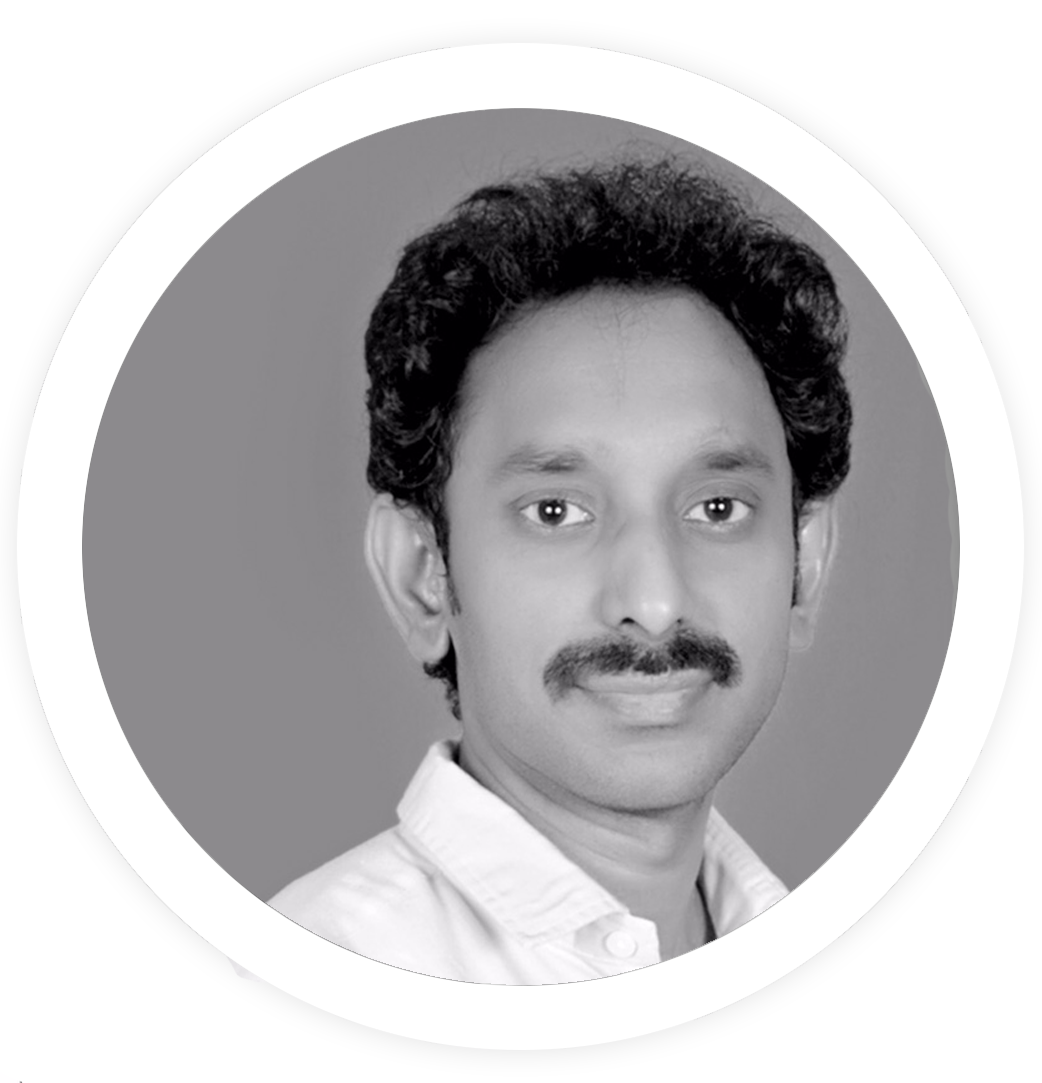
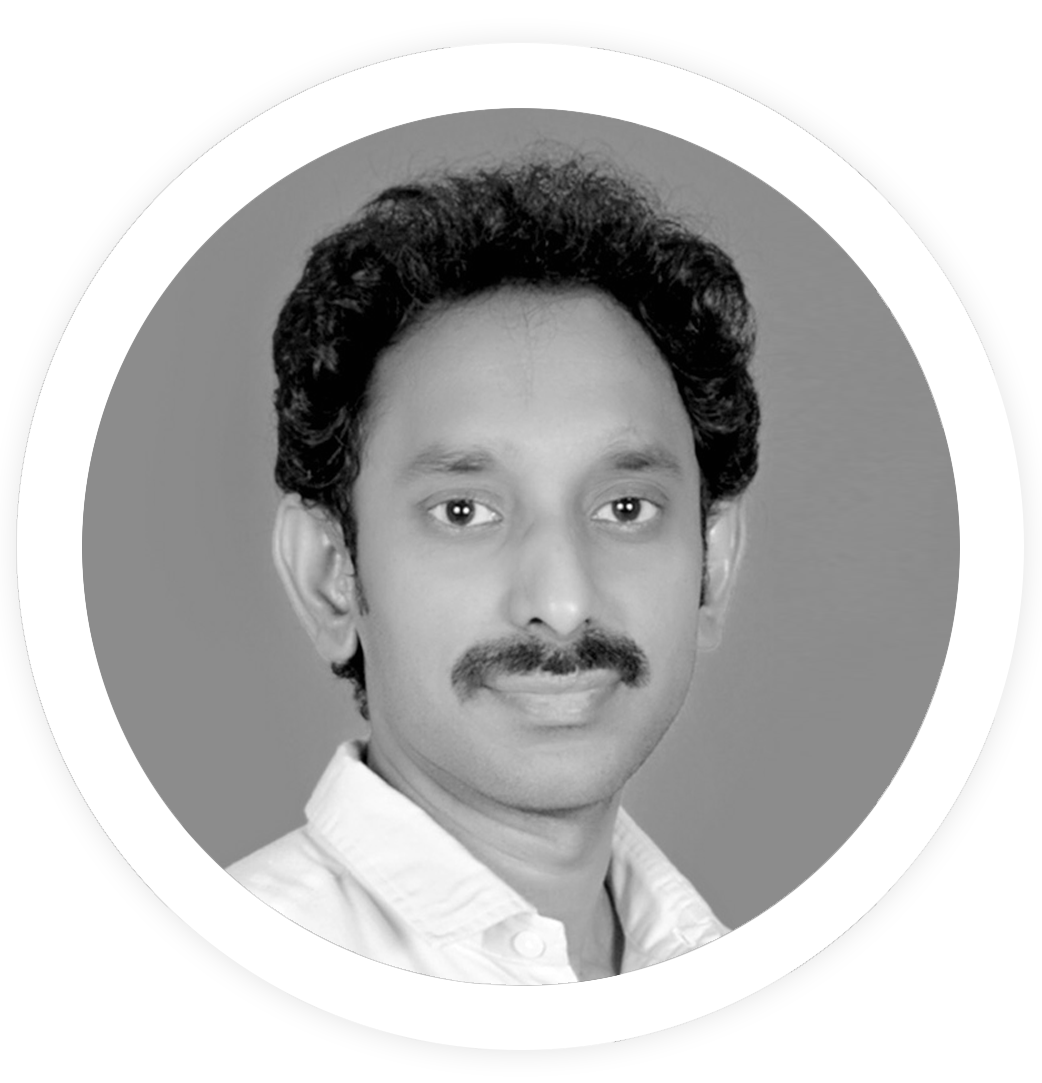
changes to overview page
changes to overview page

Changed region(s): [[0.215, 0.1219, 0.8292, 0.9141]]

diff --git a/main/overview.html b/main/overview.html
@@ -114,24 +114,48 @@
     <!--<div style="width: 80%; margin: 0 auto;">-->
     <div>
         <div id="theProblem">
-            <h2 style="color: #116194;">There is a growing gap between data generated and the ability of business to derive actionable insights</h2>
+            <h2 id="theGap">There is a growing gap between data generated and the ability of business to derive actionable insights</h2>
 
 
             <div id="max-breaker"></div>
             <img id="dataImg" src="images/data_knowledge_action.png" />
         </div>
-        <hr/>
         <div id="change">
             <h2 id="changeHeader">DISCERN Changes all of that</h2>
         </div>
-        <div id="missionDiv">
-            <h2><b>Our Mission:</b> DISCERN makes the world of data MORE:</h2>
-            <h3>Discoverable</h3>
-            <h3>Useful</h3>
-            <h3>Accessible</h3>
-            <h3>Valuable</h3>
+        <img src="images/spider.png">
+        <h2 id="bridgeGap">DISCERN Bridges the Gap</h2>
+        <div id="splitButtons">
+            <div id="leftButtonDiv" class="col-xs-6">
+                <button id="leftButton">Learn More</button>
+            </div>
+            <div id="rightButtonDiv" class="col-xs-6">
+                <button id="rightButton">Learn More</button>
+            </div>
         </div>
-        <hr>
+        <div id="missionDiv">
+            <h2 id="missionHeader">Our Mission</h2>
+            <h3 id="bulletsHeader">DISCERN makes the world of data MORE:</h3>
+            <div class="col-xs-1"></div>
+            <div id="bulletDiv" class="col-xs-10">
+                <div class="col-xs-3">
+                    <h3 class="bullets">Discoverable</h3>
+                </div>
+                <div class="col-xs-3">
+                    <h3 class="bullets">Useful</h3>
+                </div>
+                <div class="col-xs-3">
+                    <h3 class="bullets">Valuable</h3>
+                </div>
+                <div class="col-xs-3">
+                    <h3 class="bullets">Accessible</h3>
+                </div>
+            </div>
+            <div class="col-xs-1"></div>
+
+
+
+        </div>
         <div id="valuePropDiv">
             <h2 style="color: white">Value Proposition: DISCERN improves decision-making effectiveness by > 100x</h2>
             <!--<span id="increase100" style="color: #337ab7;"><b>>100x</b></span></h2>-->
@@ -157,6 +181,57 @@
         position: fixed;
         bottom: 0;
         right: 0;
+        padding: 20px;
+    }
+
+    #theGap {
+        color: #116194;
+        margin-top: 50px;
+    }
+
+    #bulletDiv {
+        padding: 0;
+    }
+
+    #leftButtonDiv {
+        border-right: 2px solid #116194;
+        padding: 30px;
+    }
+
+    #rightButtonDiv {
+        padding: 30px;
+    }
+
+    #splitButtons {
+        background-color: lightgray;
+        padding-top: 15px;
+        height: 150px;
+    }
+
+    #leftButton {
+        width: 50%;
+        display: block;
+        margin: auto;
+        font-size: 28px;
+        padding: 10px;
+        background-color: orange;
+        border: 1px solid orange;
+        color: white;
+    }
+
+    #rightButton {
+        width: 50%;
+        display: block;
+        margin: auto;
+        font-size: 28px;
+        padding: 10px;
+        background-color: purple;
+        border: 1px solid purple;
+        color: white;
+    }
+
+    #bulletsHeader {
+        font-size: 42px;
         padding: 20px;
     }
 
@@ -196,9 +271,16 @@
 
     #missionDiv {
         /*background-color: #337ab7;*/
-        padding: 50px;
+        padding: 0 50px;
         /*color: white;*/
         color: #337ab7;
+        height: 400px;
+    }
+
+    #missionHeader {
+        font-size: 100px;
+        letter-spacing: 1px;
+        padding: 20px;
     }
 
     #valuePropDiv {
@@ -208,8 +290,9 @@
 
     #dataImg {
         display: block;
-        width: 90%;
+        width: 70%;
         margin: auto;
+        margin-bottom: 50px;
     }
 
     #increase100 {

diff --git a/main/about.html b/main/about.html
@@ -225,9 +225,9 @@
         </div>
         <div class="col-sm-6 col-md-4 col-lg-3">
             <div class="thumbnail">
-                <img src="images/Sanjay.png" class="img-circle">
+                <img src="images/Team_Members_Sanjay.png" class="img-circle">
                 <div class="caption">
-                    <h3 class="bios" ng-click="changeName('Sanjay Agarwal'); changebio('Jeff Bezos is his own bodyguard... Lorem ipsum dolor sit amet, consectetur adipisicing elit. Fuga similique beatae neque, consectetur quasi, nisi. Sunt odio odit quibusdam repellendus in architecto libero corporis magnam tenetur. Nesciunt mollitia excepturi sequi.'); changeImg('images/Team_Members_Gil.png');">Sanjay Agarwal</h3>
+                    <h3 class="bios" ng-click="changeName('Sanjay Agarwal'); changebio('Jeff Bezos is his own bodyguard... Lorem ipsum dolor sit amet, consectetur adipisicing elit. Fuga similique beatae neque, consectetur quasi, nisi. Sunt odio odit quibusdam repellendus in architecto libero corporis magnam tenetur. Nesciunt mollitia excepturi sequi.'); changeImg('images/Team_Members_Sanjay.png');">Sanjay Agarwal</h3>
                     <p>Chief Data Scientist</p>
                 </div>
             </div>

diff --git a/main/stylesheets.css b/main/stylesheets.css
@@ -344,9 +344,16 @@ iframe {
     #servicesNav {
         margin-top: 0px;
     }
+    .bullets {
+        font-size: 28px;
+    }
 }
 
-@media (min-width:534px) {}
+@media (max-width:914px) {
+    .bullets {
+        font-size: 16px;
+    }
+}
 
 @media (max-width:1148px) {
     .navLinkDivs {
